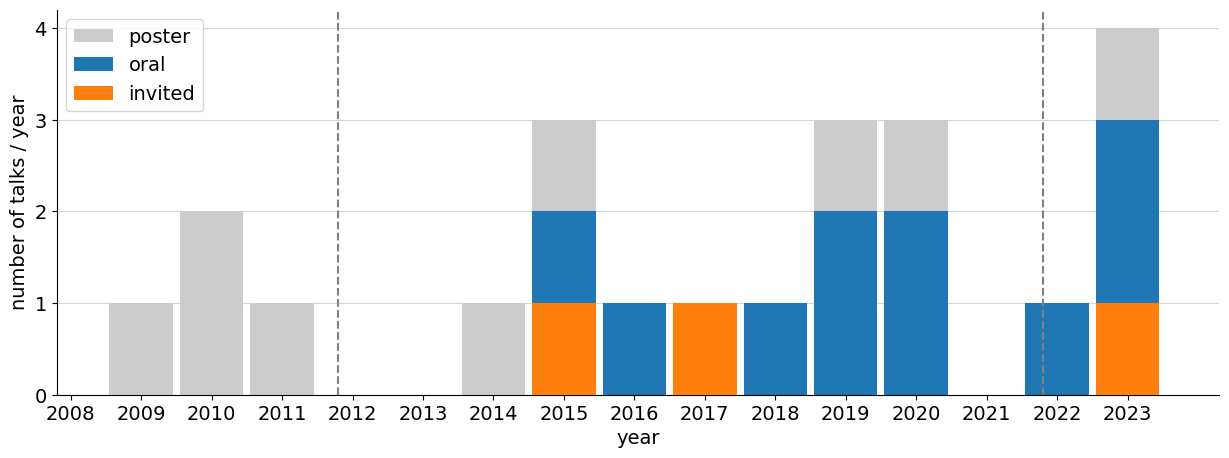
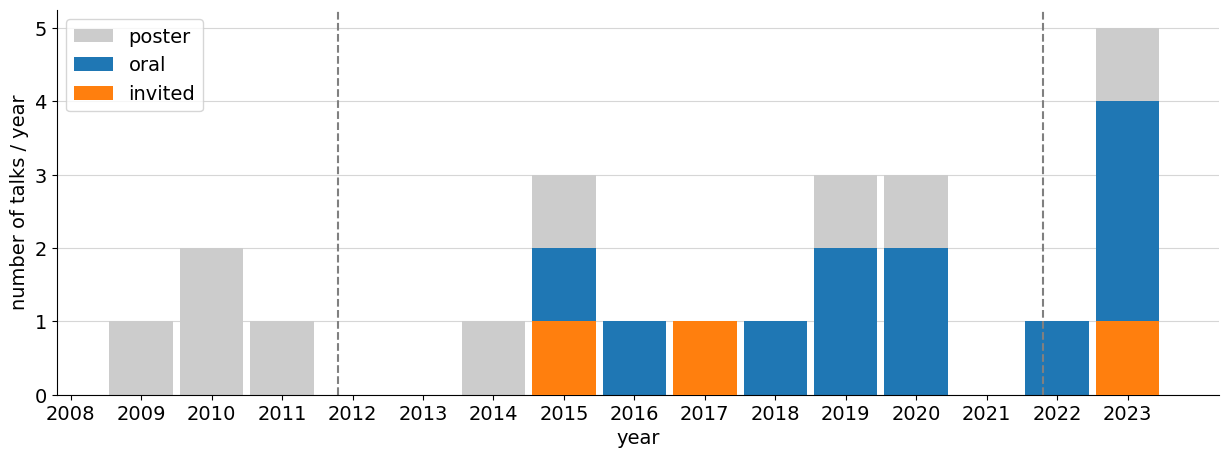
Added molecular paper

diff --git a/publications/index.md b/publications/index.md
@@ -29,92 +29,97 @@ layout: publications
 <a href="https://doi.org/10.1063/1.4863650">10.1063/1.4863650</a>  
 
 # List of papers (first- and corresponding-author)
-1. **Collisional-energy-cascade model for nonthermal velocity distributions of neutral atoms in plasmas**  
+1. **Plasma-parameter dependence of ro-vibrational temperatures for H2 in LHD divertor**  
+ **<u>Keisuke Fujii</u>**, Tsubasa Oshioka, Atsushi Niihama, Arseniy Kuzmin, Taiichi Shikama, Masahiro Kobayashi, Masahiro Hasuo  
+ *Journal of Quantitative Spectroscopy and Radiative Transfer* **310,** 108751 (2023)  
+<a href="https://doi.org/10.1016/j.jqsrt.2023.108751">10.1016/j.jqsrt.2023.108751</a>  
+
+2. **Collisional-energy-cascade model for nonthermal velocity distributions of neutral atoms in plasmas**  
  **<u>Keisuke Fujii</u>**  
  *Physical Review E* **108,** 025204 (2023)  
 <a href="https://doi.org/10.1103/PhysRevE.108.025204">10.1103/PhysRevE.108.025204</a>  
 
-2. **A simple data-driven level finding method of many-electron atoms and heavy nuclei based on statistical outlier detection**  
+3. **A simple data-driven level finding method of many-electron atoms and heavy nuclei based on statistical outlier detection**  
  Kazuaki Hongu, **<u>Keisuke Fujii</u>**  
  *Journal of Physics D: Applied Physics* **56,** 244002 (2023)  
 <a href="https://doi.org/10.1088/1361-6463/acc66f">10.1088/1361-6463/acc66f</a>  
 
-3. **Power-Law Intensity Distribution of γ-Decay Cascades: Nuclear Structure as a Scale-Free Random Network**  
+4. **Power-Law Intensity Distribution of γ-Decay Cascades: Nuclear Structure as a Scale-Free Random Network**  
  **<u>Keisuke Fujii</u>**, Julian C. Berengut  
  *Physical Review Letters* **126,** 102502 (2021)  
 <a href="https://doi.org/10.1103/PhysRevLett.126.102502">10.1103/PhysRevLett.126.102502</a>  
 
-4. **Population kinetics of many-electron atoms in ionizing plasmas studied using a continuous collisional radiative model**  
+5. **Population kinetics of many-electron atoms in ionizing plasmas studied using a continuous collisional radiative model**  
  Akira Nishio, Julian C. Berengut, Masahiro Hasuo, **<u>Keisuke Fujii</u>**  
  *Physical Review E* **102,** 053211 (2020)  
 <a href="https://doi.org/10.1103/PhysRevE.102.053211">10.1103/PhysRevE.102.053211</a>  
 
-5. **Simple Explanation for the Observed Power Law Distribution of Line Intensity in Complex Many-Electron Atoms**  
+6. **Simple Explanation for the Observed Power Law Distribution of Line Intensity in Complex Many-Electron Atoms**  
  **<u>Keisuke Fujii</u>**, Julian C. Berengut  
  *Physical Review Letters* **124,** 185002 (2020)  
 <a href="https://doi.org/10.1103/physrevlett.124.185002">10.1103/physrevlett.124.185002</a>  
 
-6. **Robust Regression for Automatic Fusion Plasma Analysis Based on Generative Modeling**  
+7. **Robust Regression for Automatic Fusion Plasma Analysis Based on Generative Modeling**  
  **<u>K. Fujii</u>**, C. Suzuki, M. Hasuo  
  *IEEE Transactions on Plasma Science* **47,** 3305-3314 (2019)  
 <a href="https://doi.org/10.1109/TPS.2019.2921073">10.1109/TPS.2019.2921073</a>  
 
-7. **Machine Learning of Noise in LHD Thomson Scattering System**  
+8. **Machine Learning of Noise in LHD Thomson Scattering System**  
  **<u>Keisuke Fujii</u>**, Ichihiro Yamada, Masahiro Hasuo  
  *Fusion Science and Technology* **74,** 57-64 (2018)  
 <a href="https://doi.org/10.1080/15361055.2017.1396179">10.1080/15361055.2017.1396179</a>  
 
-8. **Experimental evaluation of fractional abundance data for W23+–W28+**  
+9. **Experimental evaluation of fractional abundance data for W23+–W28+**  
  **<u>Keisuke Fujii</u>**, Daiji Kato, Nobuyuki Nakamura, Motoshi Goto, Shigeru Morita, Masahiro Hasuo  
  *Journal of Physics B: Atomic, Molecular and Optical Physics* **50,** 055004 (2017)  
 <a href="https://doi.org/10.1088/1361-6455/50/5/055004">10.1088/1361-6455/50/5/055004</a>  
 
-9. **Data-driven sensitivity inference for Thomson scattering electron density measurement systems**  
+10. **Data-driven sensitivity inference for Thomson scattering electron density measurement systems**  
  **<u>Keisuke Fujii</u>**, Ichihiro Yamada, Masahiro Hasuo  
  *Review of Scientific Instruments* **88,** 013508 (2017)  
 <a href="https://doi.org/10.1063/1.4974344">10.1063/1.4974344</a>  
 
-10. **Inversion Methods of the Balmer-α Line Profile for Hydrogen Atom Density Evaluation in High-Temperature Plasmas**  
+11. **Inversion Methods of the Balmer-α Line Profile for Hydrogen Atom Density Evaluation in High-Temperature Plasmas**  
  **<u>Keisuke Fujii</u>**, Motoshi Goto, Shigeru Morita, Masahiro Hasuo  
  *Fusion Science and Technology* **69,** 514-525 (2016)  
 <a href="https://doi.org/10.13182/FST15-168">10.13182/FST15-168</a>  
-
-11. **Visible emission spectroscopy of highly charged tungsten ions in LHD: I. Survey of new visible emission lines**  
- M Shinohara, **<u>K Fujii</u>**, D Kato, N Nakamura, M Goto, S Morita, M Hasuo  
- *Physica Scripta* **90,** 125402 (2015)  
-<a href="https://doi.org/10.1088/0031-8949/90/12/125402">10.1088/0031-8949/90/12/125402</a>  
 
 12. **Visible emission spectroscopy of highly charged tungsten ions in LHD: II. Evaluation of tungsten ion temperature**  
  **<u>K Fujii</u>**, Y Takahashi, Y Nakai, D Kato, M Goto, S Morita, M Hasuo  
  *Physica Scripta* **90,** 125403 (2015)  
 <a href="https://doi.org/10.1088/0031-8949/90/12/125403">10.1088/0031-8949/90/12/125403</a>  
 
-13. **Study of neutral hydrogen transport in LHD core plasmas based on high dynamic-range Balmer-αspectroscopy**  
+13. **Visible emission spectroscopy of highly charged tungsten ions in LHD: I. Survey of new visible emission lines**  
+ M Shinohara, **<u>K Fujii</u>**, D Kato, N Nakamura, M Goto, S Morita, M Hasuo  
+ *Physica Scripta* **90,** 125402 (2015)  
+<a href="https://doi.org/10.1088/0031-8949/90/12/125402">10.1088/0031-8949/90/12/125402</a>  
+
+14. **Study of neutral hydrogen transport in LHD core plasmas based on high dynamic-range Balmer-αspectroscopy**  
  **<u>K. Fujii</u>**, M. Goto, S. Morita,  The LHD Experiment Group  
  *Nuclear Fusion* **55,** 063029 (2015)  
 <a href="https://doi.org/10.1088/0029-5515/55/6/063029">10.1088/0029-5515/55/6/063029</a>  
 
-14. **Development of a high dynamic range spectroscopic system for observation of neutral hydrogen atom density distribution in Large Helical Device core plasma**  
+15. **Development of a high dynamic range spectroscopic system for observation of neutral hydrogen atom density distribution in Large Helical Device core plasma**  
  **<u>K. Fujii</u>**, S. Atsumi, S. Watanabe, T. Shikama, M. Goto, S. Morita, M. Hasuo  
  *Review of Scientific Instruments* **85,** 023502 (2014)  
 <a href="https://doi.org/10.1063/1.4863650">10.1063/1.4863650</a>  
 
-15. **Hydrogen transport diagnostics by atomic and molecular emission line profiles simultaneously measured for large helical device**  
+16. **Hydrogen transport diagnostics by atomic and molecular emission line profiles simultaneously measured for large helical device**  
  **<u>K. Fujii</u>**, T. Shikama, M. Goto, S. Morita, M. Hasuo  
  *Physics of Plasmas* **20,** 012514 (2013)  
 <a href="https://doi.org/10.1063/1.4789454">10.1063/1.4789454</a>  
 
-16. **A Collisional-Radiative Model for Hydrogen Atom Including Velocity Changing Collisions**  
+17. **A Collisional-Radiative Model for Hydrogen Atom Including Velocity Changing Collisions**  
  **<u>Keisuke FUJII</u>**, Taiichi SHIKAMA, Keiji SAWADA, Motoshi GOTO, Shigeru MORITA, Masahiro HASUO  
  *Plasma and Fusion Research* **6,** 2401125-2401125 (2011)  
 <a href="https://doi.org/10.1585/pfr.6.2401125">10.1585/pfr.6.2401125</a>  
 
-17. **Kinetic energy measurement of hydrogen in LHD peripheral plasma with a multi-wavelength-range fine-resolution spectrometer**  
+18. **Kinetic energy measurement of hydrogen in LHD peripheral plasma with a multi-wavelength-range fine-resolution spectrometer**  
  **<u>Keisuke Fujii</u>**, Keisuke Mizushiri, Tomomi Nishioka, Taiichi Shikama, Atsushi Iwamae, Motoshi Goto, Shigeru Morita, Masahiro Hasuo  
  *Nuclear Instruments and Methods in Physics Research Section A: Accelerators, Spectrometers, Detectors and Associated Equipment* **623,** 690-692 (2010)  
 <a href="https://doi.org/10.1016/j.nima.2010.02.100">10.1016/j.nima.2010.02.100</a>  
 
-18. **Development of multiwavelength-range fine-resolution spectrometer for hydrogen emissions and its application to large helical device periphery plasmas**  
+19. **Development of multiwavelength-range fine-resolution spectrometer for hydrogen emissions and its application to large helical device periphery plasmas**  
  **<u>K. Fujii</u>**, K. Mizushiri, T. Nishioka, T. Shikama, A. Iwamae, M. Goto, S. Morita, S Kado, K. Sawada, M. Hasuo  
  *Review of Scientific Instruments* **81,** 033106 (2010)  
 <a href="https://doi.org/10.1063/1.3356730">10.1063/1.3356730</a>  
